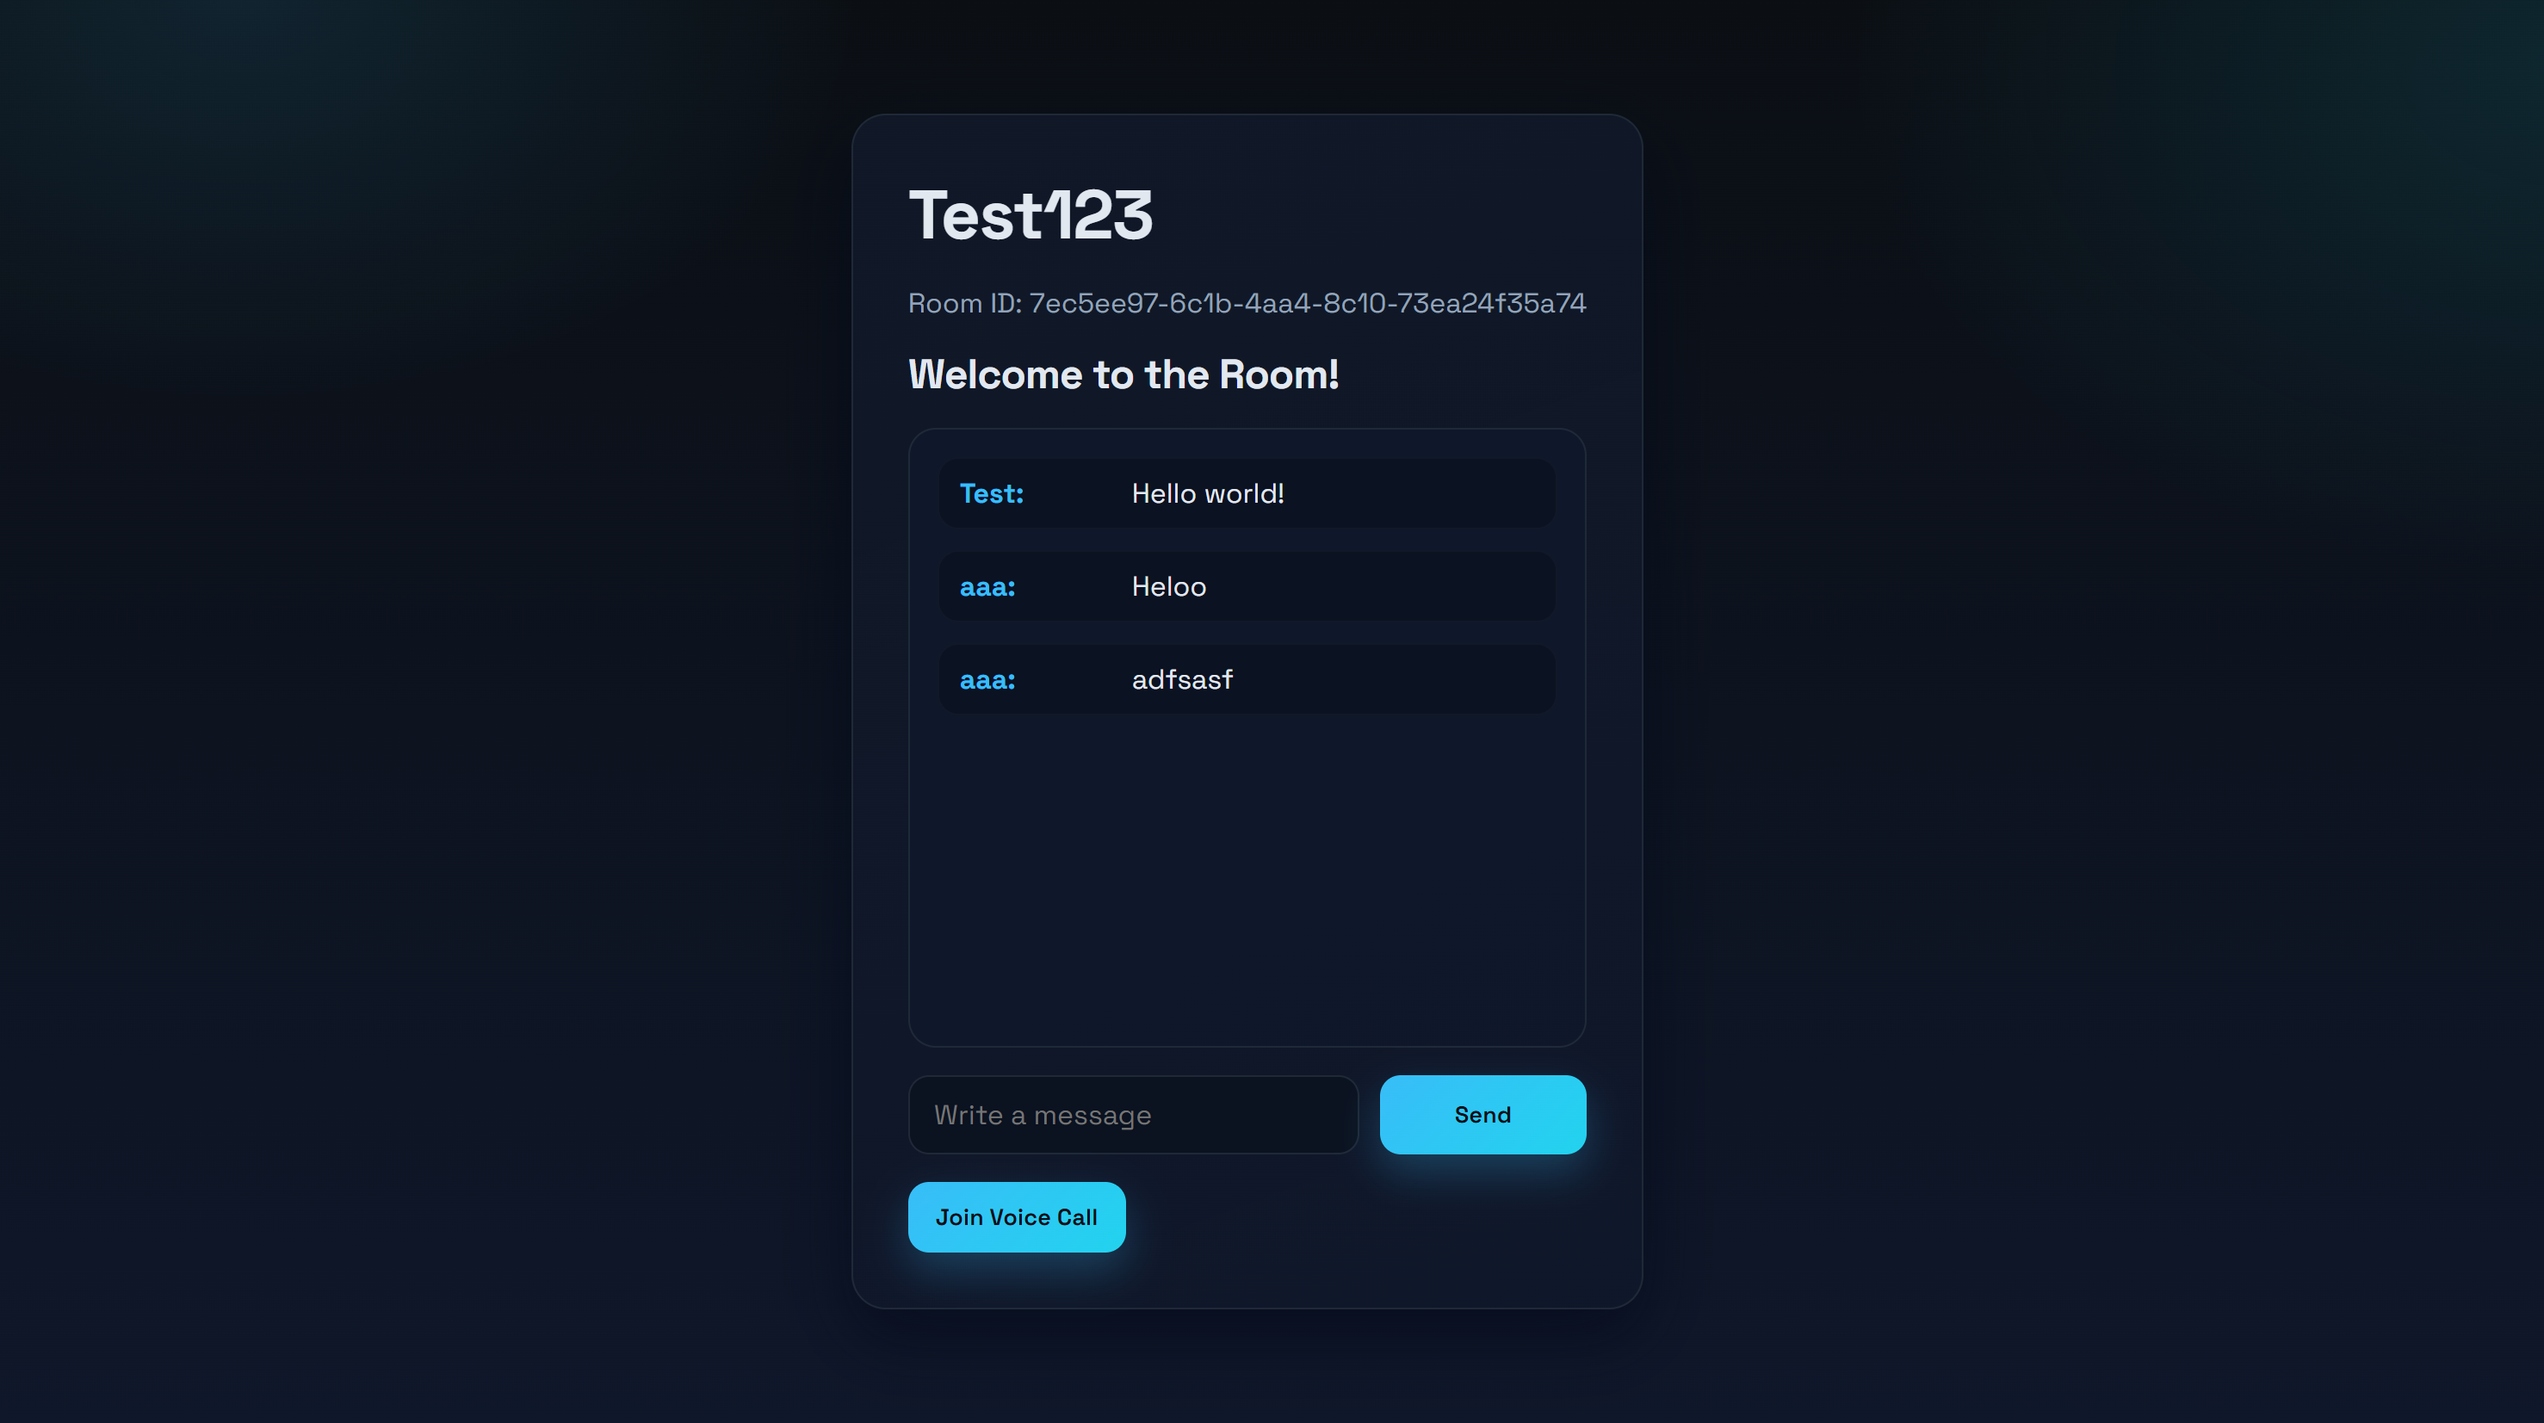
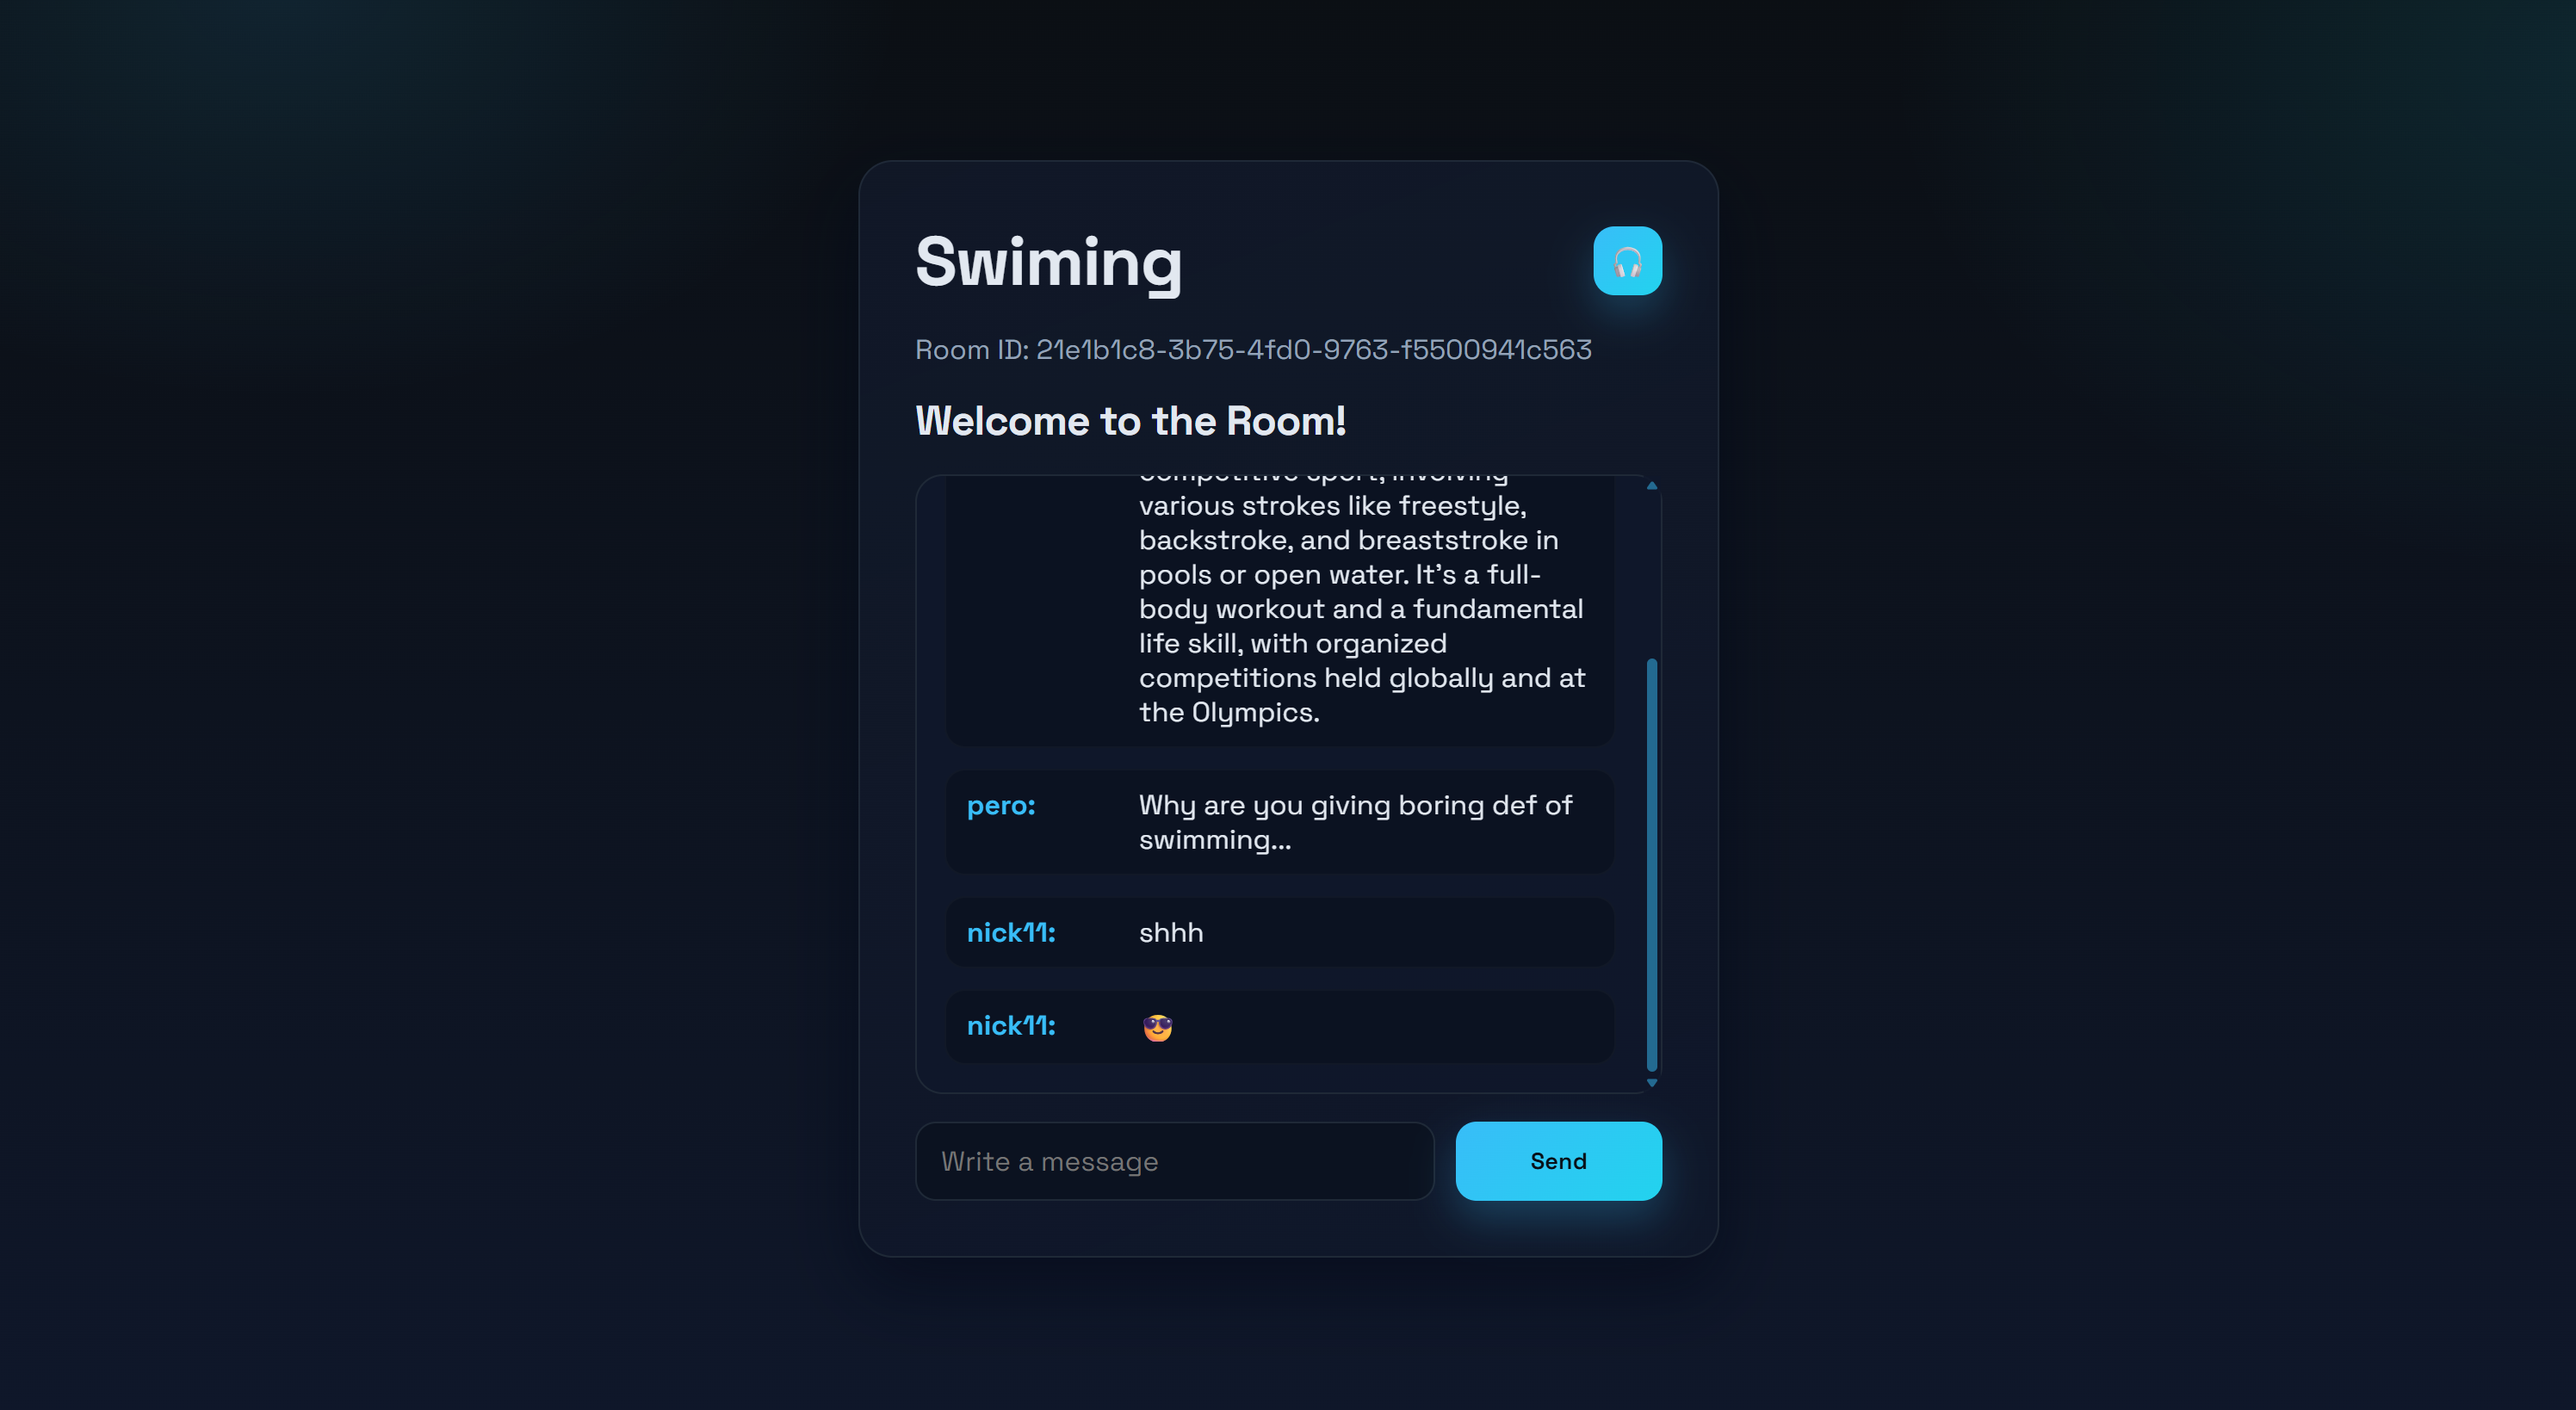
Update UI and chat behavior

diff --git a/public/room.html b/public/room.html
@@ -11,7 +11,12 @@
 
 <body>
     <main>
-        <h1 id="room_name">Room Name</h1>
+        <div class="room-header">
+            <h1 id="room_name">Room Name</h1>
+            <button id="voice_call_button" class="icon-button" aria-label="Join voice call">
+                <span aria-hidden="true">🎧</span>
+            </button>
+        </div>
         <p id="room_id">Room ID: <span id="room_id_value"></span></p>
         <div id="room_content">
             <h2>Welcome to the Room!</h2>
@@ -22,7 +27,6 @@
                 <input type="text" id="message_input" placeholder="Write a message">
                 <input type="button" value="Send" id="send_button">
             </div>
-            <button id="voice_call_button">Join Voice Call</button>
             <audio id="remote_audio" autoplay></audio>
         </div>
     </main>
@@ -87,11 +91,13 @@
                 messages.forEach((message) => {
                     addMessageToChat(message);
                 });
+                scrollToBottom();
             });
 
             // Listen for new messages
             socket.on('message', (data) => {
                 addMessageToChat(data);
+                scrollToBottom();
             });
 
             // Send a message
@@ -100,6 +106,14 @@
                 if (messageContent) {
                     socket.emit('sendMessage', { username, message: messageContent, roomId });
                     messageInput.value = ''; // Clear the input field
+                }
+            });
+
+            // Send message on Enter
+            messageInput.addEventListener('keydown', (event) => {
+                if (event.key === 'Enter') {
+                    event.preventDefault();
+                    sendButton.click();
                 }
             });
         }
@@ -113,6 +127,10 @@
                 <span class="message-content">${message.message}</span>
             `;
             messagesContainer.appendChild(messageElement);
+        }
+
+        function scrollToBottom() {
+            messagesContainer.scrollTop = messagesContainer.scrollHeight;
         }
 
         // Initialize voice call functionalities

diff --git a/public/style/room_style.css b/public/style/room_style.css
@@ -5,21 +5,60 @@
     animation: fade-in 0.6s ease;
 }
 
+.room-header {
+    display: flex;
+    align-items: center;
+    justify-content: space-between;
+    gap: 12px;
+}
+
+.icon-button {
+    display: inline-flex;
+    align-items: center;
+    justify-content: center;
+    width: 40px;
+    height: 40px;
+    border-radius: 12px;
+    font-size: 18px;
+    padding: 0;
+}
+
 #messages {
     width: 100%;
-    min-height: 360px;
-    max-height: 520px;
+    height: 360px;
     padding: 16px;
     display: flex;
     flex-direction: column;
     gap: 12px;
     overflow-y: auto;
+    overflow-x: hidden;
     border: 1px solid var(--border);
     border-radius: 16px;
     background: rgba(15, 23, 42, 0.8);
+    scrollbar-width: thin;
+    scrollbar-color: rgba(56, 189, 248, 0.5) rgba(15, 23, 42, 0.8);
 }
 
-#messages > .message {
+#messages::-webkit-scrollbar {
+    width: 10px;
+}
+
+#messages::-webkit-scrollbar-track {
+    background: rgba(15, 23, 42, 0.8);
+    border-radius: 12px;
+}
+
+#messages::-webkit-scrollbar-thumb {
+    background: rgba(56, 189, 248, 0.5);
+    border-radius: 12px;
+    border: 2px solid rgba(15, 23, 42, 0.8);
+}
+
+#messages::-webkit-scrollbar-thumb:hover {
+    background: rgba(56, 189, 248, 0.8);
+}
+
+#messages>.message {
     display: flex;
     gap: 10px;
     align-items: flex-start;
@@ -30,14 +69,18 @@
     animation: pop 0.35s ease;
 }
 
-#messages > .message > .username {
+#messages>.message>.username {
     font-weight: 700;
     color: var(--accent);
     min-width: 90px;
 }
 
-#messages > .message > .message-content {
+#messages>.message>.message-content {
     color: var(--text);
+    white-space: pre-wrap;
+    /* overflow-wrap: anywhere; */
+    word-break: break-word;
+    word-wrap: break-word;
 }
 
 .message-input {
@@ -46,14 +89,14 @@
     gap: 12px;
 }
 
-.message-input > input[type=text] {
+.message-input>input[type=text] {
     width: 100%;
 }
 
-.message-input > input[type=button] {
+.message-input>input[type=button] {
     min-width: 120px;
 }
 
 #voice_call_button {
-    align-self: flex-start;
+    min-width: 0;
 }

diff --git a/public/login.html b/public/login.html
@@ -11,8 +11,8 @@
 <body>
     <main>
         <form action="/login" method="POST">
-            <h1>Create your <b>account</b></h1>
-            <input type="text" id="username" name="username" placeholder="Just write username of your choice">
+            <h1>Pick a <b>nickname</b></h1>
+            <input type="text" id="username" name="username" placeholder="Type your nickname below">
             <button type="submit">Login</button>
         </form>
     </main>

diff --git a/public/home.html b/public/home.html
@@ -23,7 +23,7 @@
         <!-- Search for private rooms -->
         <div class="search-input">
             <input type="text" id="room_id_input" placeholder="Room id">
-            <input type="button" id="search_button" value="Search">
+            <input type="button" id="search_button" value="Enter">
         </div>
 
         <div id="rooms">

diff --git a/public/style/style.css b/public/style/style.css
@@ -37,7 +37,7 @@ body {
 }
 
 main {
-    width: minmax(100%, 200px);
+    width: 500px;
     margin: auto;
     background: linear-gradient(160deg, rgba(17, 24, 39, 0.98), rgba(15, 23, 42, 0.92));
     border: 1px solid var(--border);
